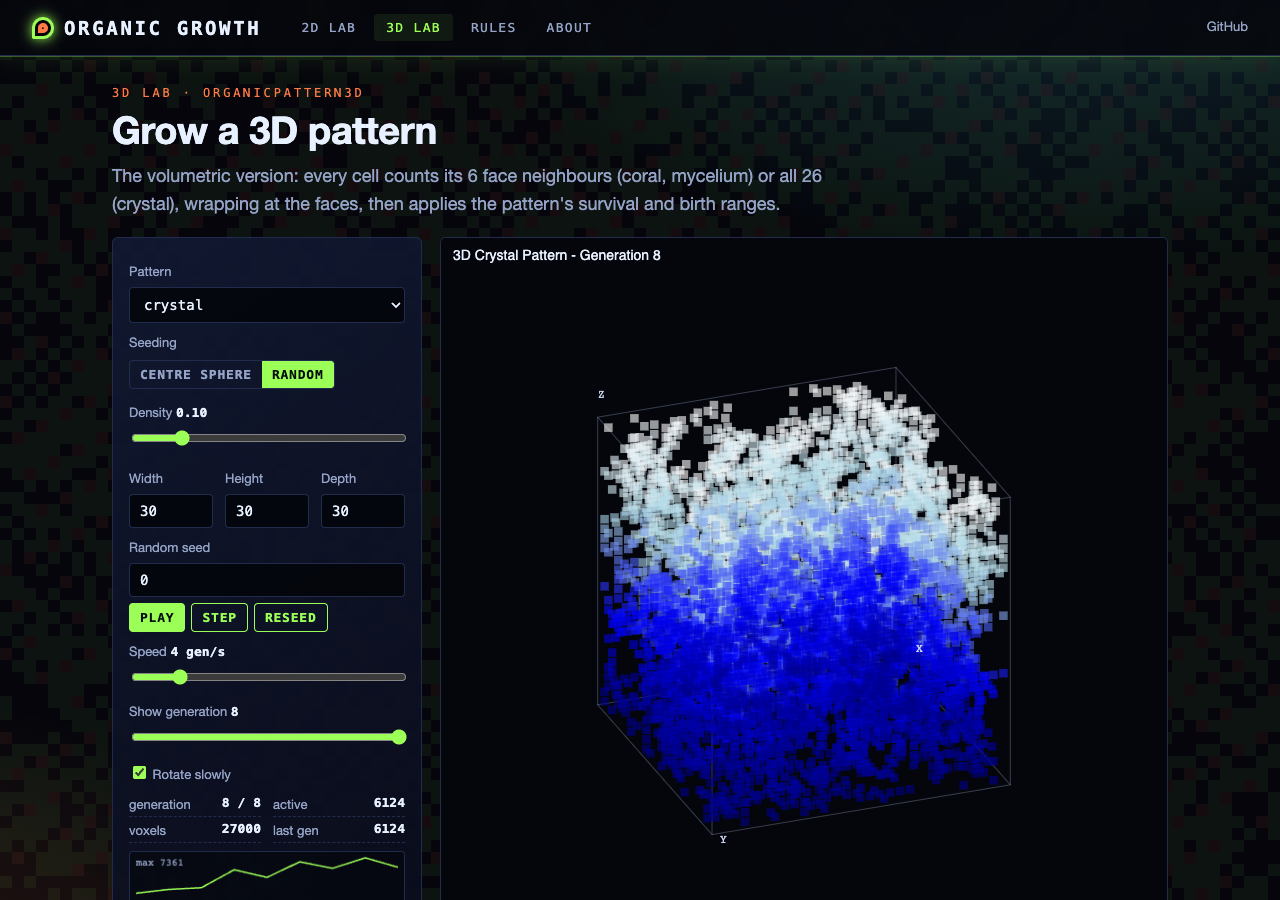
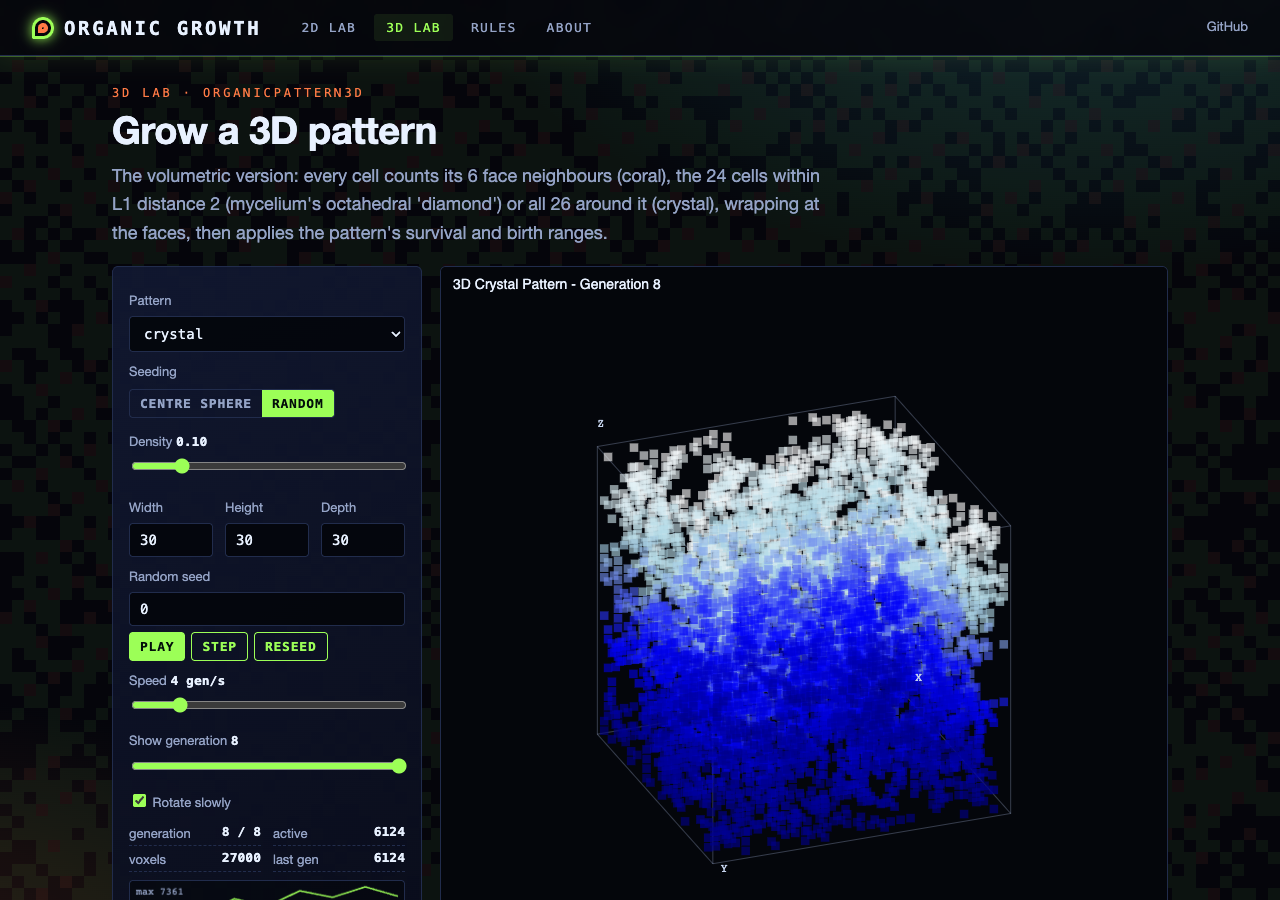
Update session log and screenshots for the mycelium and diamond fixes

Changed region(s): [[0.0625, 0.1867, 0.6562, 1.0], [0.4688, 0.4044, 0.8125, 0.9644]]

diff --git a/SESSION_LOG.md b/SESSION_LOG.md
@@ -25,3 +25,14 @@ rules, about. Local app adds "Check with Python" (POST /api/simulate2d|3d replay
   a different (e.g. 18-neighbour) shape.
 
 Tests: `test_organic_patterns.py` 25 passed; `tests/test_web.py` 16 passed (incl. node engine test).
+
+## 2026-11-11 (later) - George-approved fixes for the two open decisions
+
+- **Mycelium 2D** (`11c9ef5`): noise is now added only to live cells, so empty cells stay 0, births happen and the
+  pattern grows from a seed (regression test). Note: live cells are 1 and the existing clip to [0, 1] is kept, so the
+  noise no longer changes any value; the random draws are still made, keeping the numpy stream unchanged.
+- **3D 'diamond' kernel** (`a83acb1`): now the octahedral L1 ball of radius 2 (5x5x5, 24 neighbours), distinct from
+  'sphere' (6 face neighbours); 3D mycelium now grows instead of freezing. JS 3D engine takes any odd cubic kernel.
+- Both fixes in desktop and web; fixture regenerated (now 19 runs, incl. a grid smaller than the 5x5x5 kernel).
+- Checks re-run: `test_organic_patterns.py` 27 passed, `tests/test_web.py` 16 passed, node 23 checks; screenshots.py
+  static + local app all ok, phone overflow 0; Check with Python "Identical" for 2D mycelium, 3D mycelium and crystal.
